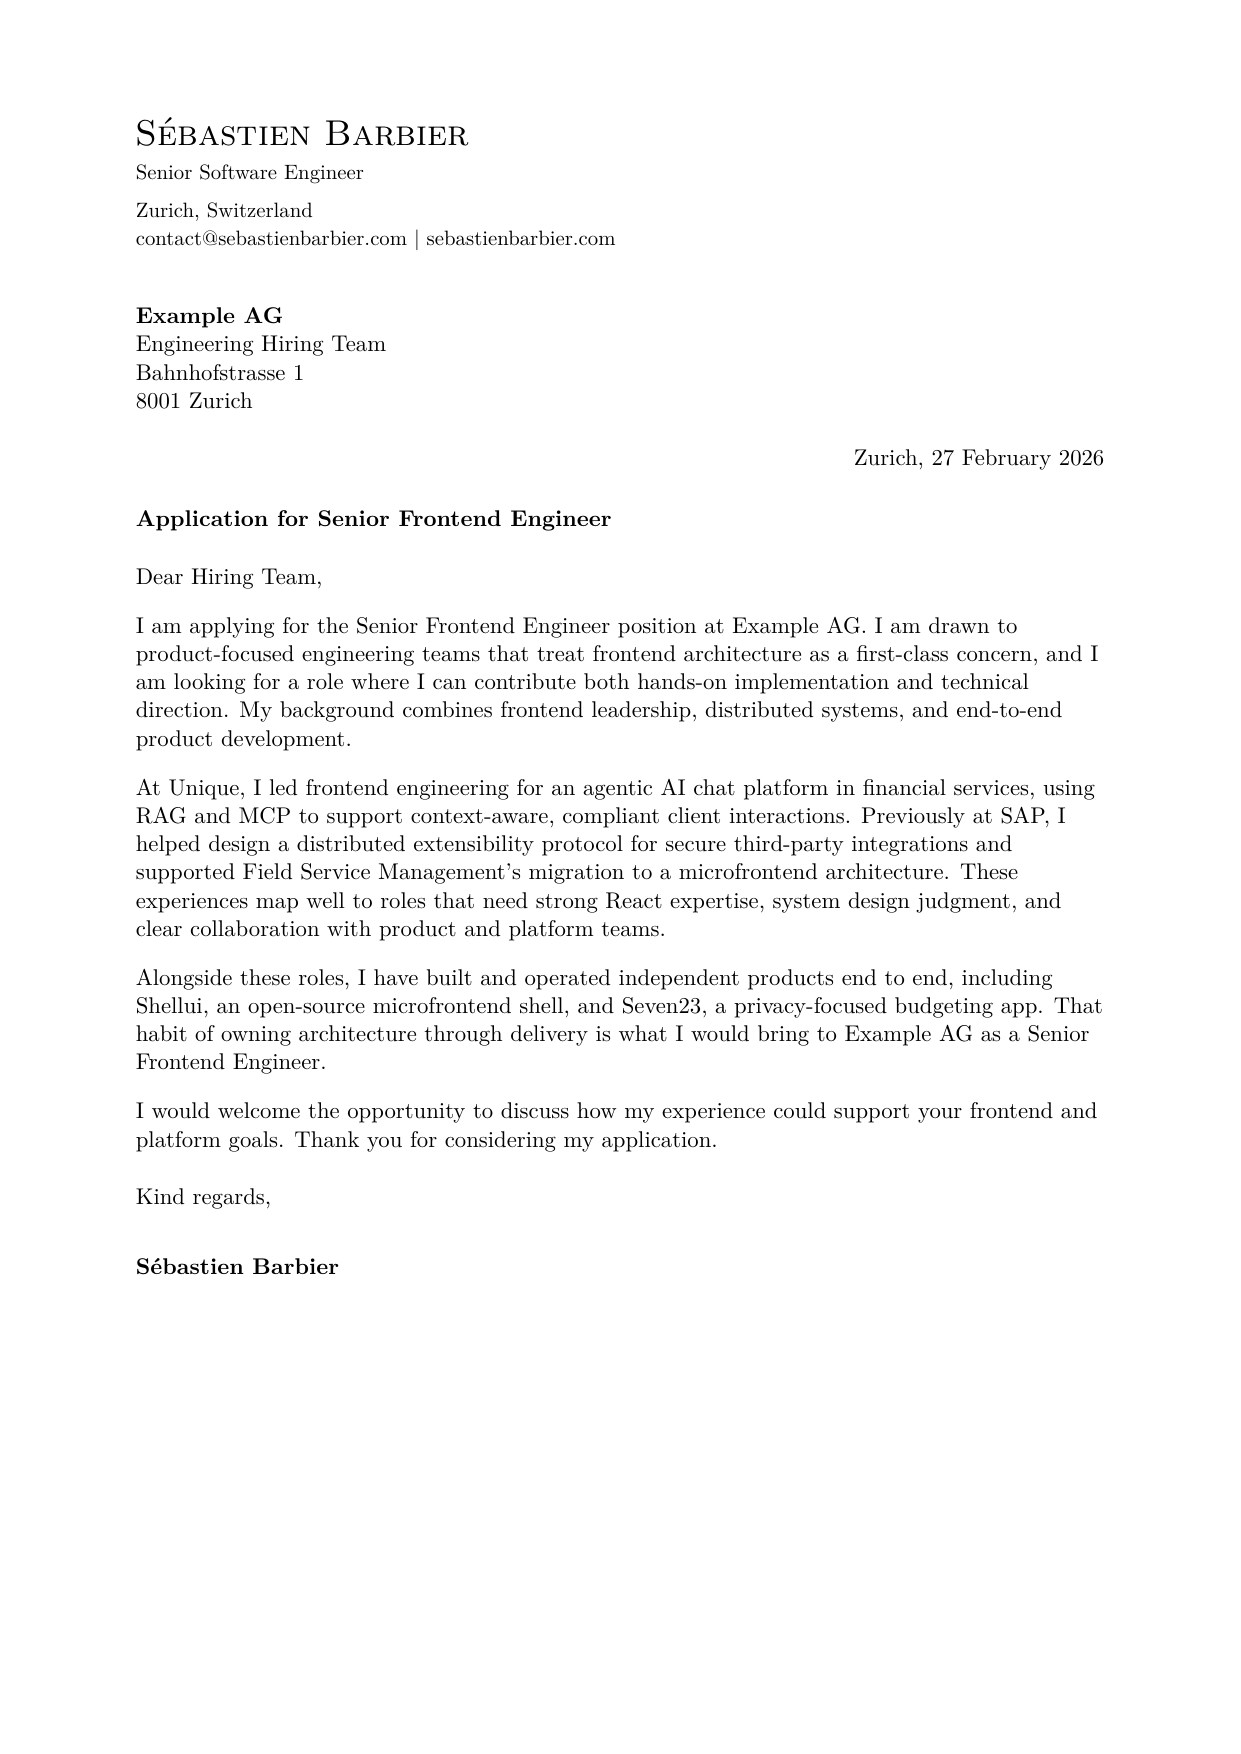
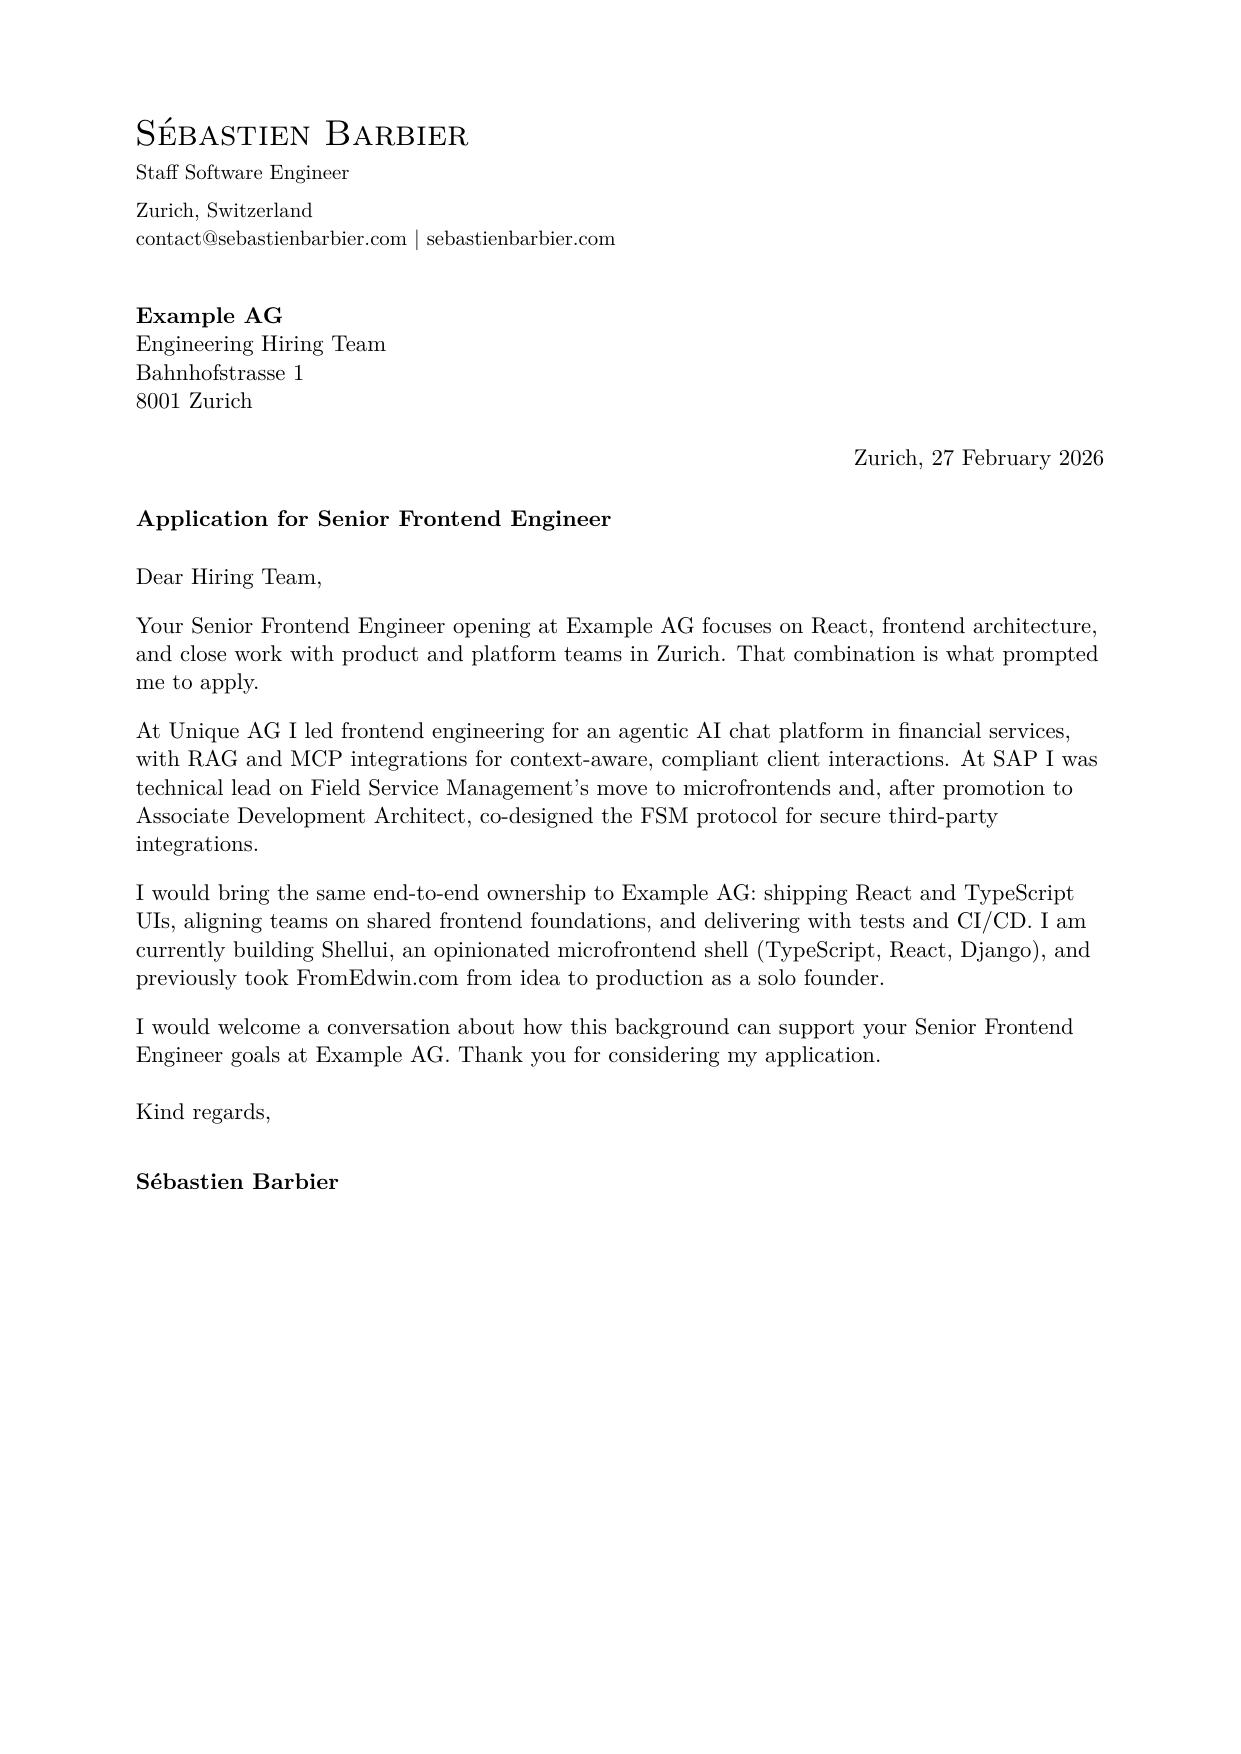
Document AIDA cover letters and restructure public demo
Add AGENTS.md rules for Attention, Interest, Desire, and Action; rebuild
cover-letter.tex/PDF as one-page AIDA example and refresh README workflow.

Changed region(s): [[0.0919, 0.3387, 0.888, 0.7389], [0.1225, 0.0924, 0.2756, 0.1231], [0.4899, 0.6465, 0.5205, 0.6773]]

diff --git a/cover-letter.tex b/cover-letter.tex
@@ -1,5 +1,5 @@
 % Cover letter companion to resume.tex (Jake Gutierrez / sb2nov style).
-% Workflow: edit the fields below and the three body paragraphs for each job offer.
+% Workflow: edit the fields below and the four AIDA body paragraphs for each job offer.
 % Compile: make cover-letter   (or: make)
 \documentclass[a4paper,11pt]{article}
 \usepackage[T1]{fontenc}
@@ -14,7 +14,7 @@
 \setlength{\parindent}{0pt}
 \setlength{\parskip}{10pt}
 \raggedright
-\hypersetup{pdftitle={Sebastien Barbier - Cover Letter},pdfauthor={Sébastien Barbier}}
+\hypersetup{pdftitle={Sébastien Barbier - Cover Letter},pdfauthor={Sébastien Barbier}}
 
 % =============================================================================
 % EDIT THESE FOR EACH APPLICATION (demo values below are for the public sample)
@@ -29,7 +29,7 @@
 
 \begin{document}
 {\LARGE\scshape Sébastien Barbier}\\[3pt]
-{\small Senior Software Engineer}\\[6pt]
+{\small Staff Software Engineer}\\[6pt]
 {\small Zurich, Switzerland\\
 \href{mailto:contact@sebastienbarbier.com}{contact@sebastienbarbier.com} $|$ \href{https://sebastienbarbier.com}{sebastienbarbier.com}}
 
@@ -48,16 +48,17 @@
 \vspace{4pt}
 \Greeting
 
-% OPENING: why this company / role
-I am applying for the \Role{} position at \Company. I am drawn to product-focused engineering teams that treat frontend architecture as a first-class concern, and I am looking for a role where I can contribute both hands-on implementation and technical direction. My background combines frontend leadership, distributed systems, and end-to-end product development.
+% ATTENTION: specific, factual hook tied to company or role (no clichés)
+Your \Role{} opening at \Company{} focuses on React, frontend architecture, and close work with product and platform teams in Zurich. That combination is what prompted me to apply.
 
-% EVIDENCE: most relevant experience for this offer
-At Unique, I led frontend engineering for an agentic AI chat platform in financial services, using RAG and MCP to support context-aware, compliant client interactions. Previously at SAP, I helped design a distributed extensibility protocol for secure third-party integrations and supported Field Service Management's migration to a microfrontend architecture. These experiences map well to roles that need strong React expertise, system design judgment, and clear collaboration with product and platform teams.
+% INTEREST: most relevant experience for this posting
+At Unique AG I led frontend engineering for an agentic AI chat platform in financial services, with RAG and MCP integrations for context-aware, compliant client interactions. At SAP I was technical lead on Field Service Management's move to microfrontends and, after promotion to Associate Development Architect, co-designed the FSM protocol for secure third-party integrations.
 
-% PERSONAL FIT: one project or story tailored to the company
-Alongside these roles, I have built and operated independent products end to end, most recently Shellui, an open-source web app platform. That habit of owning architecture through delivery is what I would bring to \Company{} as a \Role.
+% DESIRE: concrete value from real resume facts only
+I would bring the same end-to-end ownership to \Company{}: shipping React and TypeScript UIs, aligning teams on shared frontend foundations, and delivering with tests and CI/CD. I am currently building Shellui, an opinionated microfrontend shell (TypeScript, React, Django), and previously took FromEdwin.com from idea to production as a solo founder.
 
-I would welcome the opportunity to discuss how my experience could support your frontend and platform goals. Thank you for considering my application.
+% ACTION: clear, confident close
+I would welcome a conversation about how this background can support your \Role{} goals at \Company{}. Thank you for considering my application.
 
 \vspace{4pt}
 Kind regards,\\[20pt]

diff --git a/AGENTS.md b/AGENTS.md
@@ -54,6 +54,19 @@ Never mention Seven23 (or seven23.io) in a resume or cover letter, not even as a
 4. Add the real phone number only in the application copy. Name the final PDF `sebastien_barbier_resume.pdf`.
 5. List keywords from the ad that could not be covered honestly, so the user can decide.
 
+## Cover letters (AIDA)
+
+Every generated cover letter must follow the **AIDA** structure below. Use the language of the job ad (English, German, or French). **One A4 page maximum.** Tone: sober and professional, Swiss-style precision; no sales language, clichés, or hype (for example avoid "passionate", "thrilled", or "perfect fit"). **Never use em or en dashes as punctuation** in prose; use commas, colons, or full stops. Job titles and `Shellui` spelling rules still apply. Never mention Seven23. Use only facts from the resume and job ad; if a hook needs company detail you do not have, ask the user instead of inventing it.
+
+| Step | Purpose |
+| ---- | ------- |
+| **Attention** | Open with a **specific, factual hook** tied to the company or role (a concrete detail from the ad, product, stack, or scope). Not a generic "I am applying for…" opener. |
+| **Interest** | The **most relevant experience** for this posting: role, employer, technologies, and outcomes that match the ad. |
+| **Desire** | **Concrete proof of value** Sébastien would bring this employer, using **only real facts** from the resume (scope, systems shipped, leadership, domain). |
+| **Action** | A **clear, confident close** that asks for a conversation (interview or call). No pressure tactics or availability deadlines unless the user supplies them. |
+
+For each application, copy [`cover-letter.tex`](./cover-letter.tex) into the application folder (or edit the copy there), set the header fields, and replace the four AIDA body paragraphs. The root `cover-letter.tex` is the public demo; keep it on one page when rebuilt.
+
 ## Build and verify
 
 - Build with `make` (pdflatex), or `make docker TEX=resume.tex` when pdflatex is missing (start Docker Desktop first). For an application folder: `make -f ../../Makefile docker TEX=resume.tex CURDIR=$(pwd)`.

diff --git a/README.md b/README.md
@@ -35,7 +35,7 @@ LaTeX source for my resume and a cover-letter template I rewrite for each job of
 ## Per-application workflow
 
 1. Edit [`resume.tex`](./resume.tex) if the role needs a different emphasis.
-2. Edit the fields at the top of [`cover-letter.tex`](./cover-letter.tex) (company, role, date, greeting) and retarget the three body paragraphs.
+2. Edit the fields at the top of [`cover-letter.tex`](./cover-letter.tex) (company, role, date, greeting) and retarget the four **AIDA** body paragraphs (see [`AGENTS.md`](./AGENTS.md)).
 3. Build:
 
 ```bash
